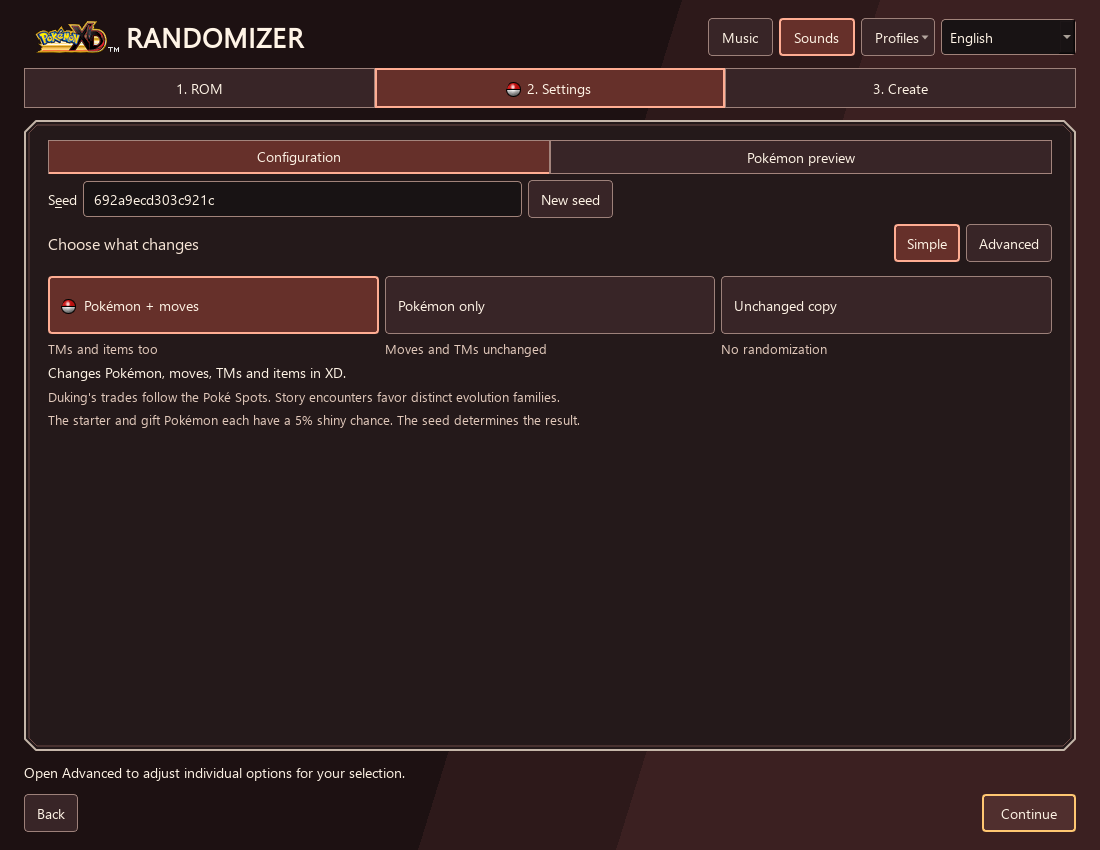
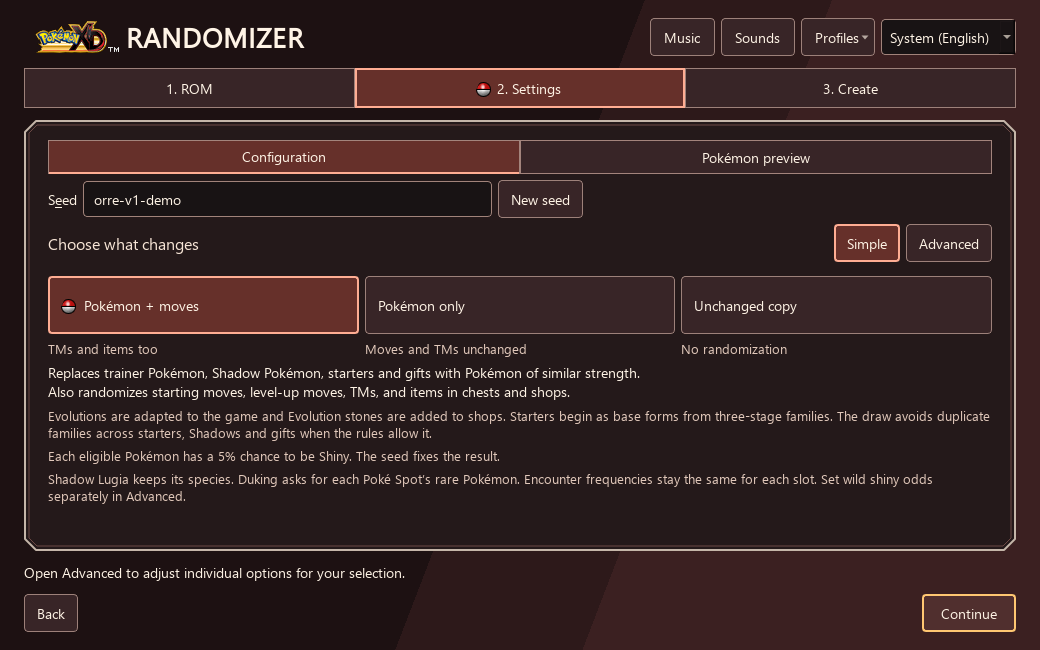
Refresh the Cyndaquil sheet and XD settings screenshots

diff --git a/README.md b/README.md
@@ -74,6 +74,8 @@ leave no alternative.
 profiles keep their saved settings, including defaults from older versions.
 Selecting a preset applies the current defaults.
 
+![XD Simple settings with separate encounter frequencies and wild shiny odds](docs/images/xd-settings.png)
+
 ![Colosseum settings and starter preview](docs/images/colosseum-settings.png)
 
 Preview all 48 Colosseum Shadow Pokémon and their replacements before creating
@@ -139,11 +141,13 @@ Pokémon sheets read the final patched game data, including evolution routes,
 moves and TM compatibility. The Summary and Moves tabs show the original ability
 and move descriptions in your interface language.
 
+![Cyndaquil’s evolution sheet in Colosseum, with the original Fire badge](docs/images/pokemon-sheet.png)
+
 | Colosseum · Shadow Rush | XD · Shadow moves |
 | --- | --- |
 | ![Colosseum move sheet with Shadow Rush and its description](docs/images/colosseum-shadow-moves.png) | ![XD move sheet with Shadow moves, descriptions and type badges](docs/images/xd-shadow-moves.png) |
 
-These application captures show the French interface.
+The move sheets above show the French interface.
 
 ### Advanced settings
 
@@ -153,10 +157,6 @@ own; switching between Simple and Advanced keeps your settings.
 | Colosseum · move rules | XD · shiny rules |
 | --- | --- |
 | ![Colosseum advanced settings: moves, learnsets and battle safeguards](docs/images/colosseum-advanced.png) | ![XD advanced settings: custom shiny rate and optional Shadow unlock](docs/images/xd-advanced.png) |
-
-![XD settings](docs/images/xd-settings.png)
-
-![Pokémon sheet with evolution routes](docs/images/pokemon-sheet.png)
 
 ## Compatibility and languages
 
